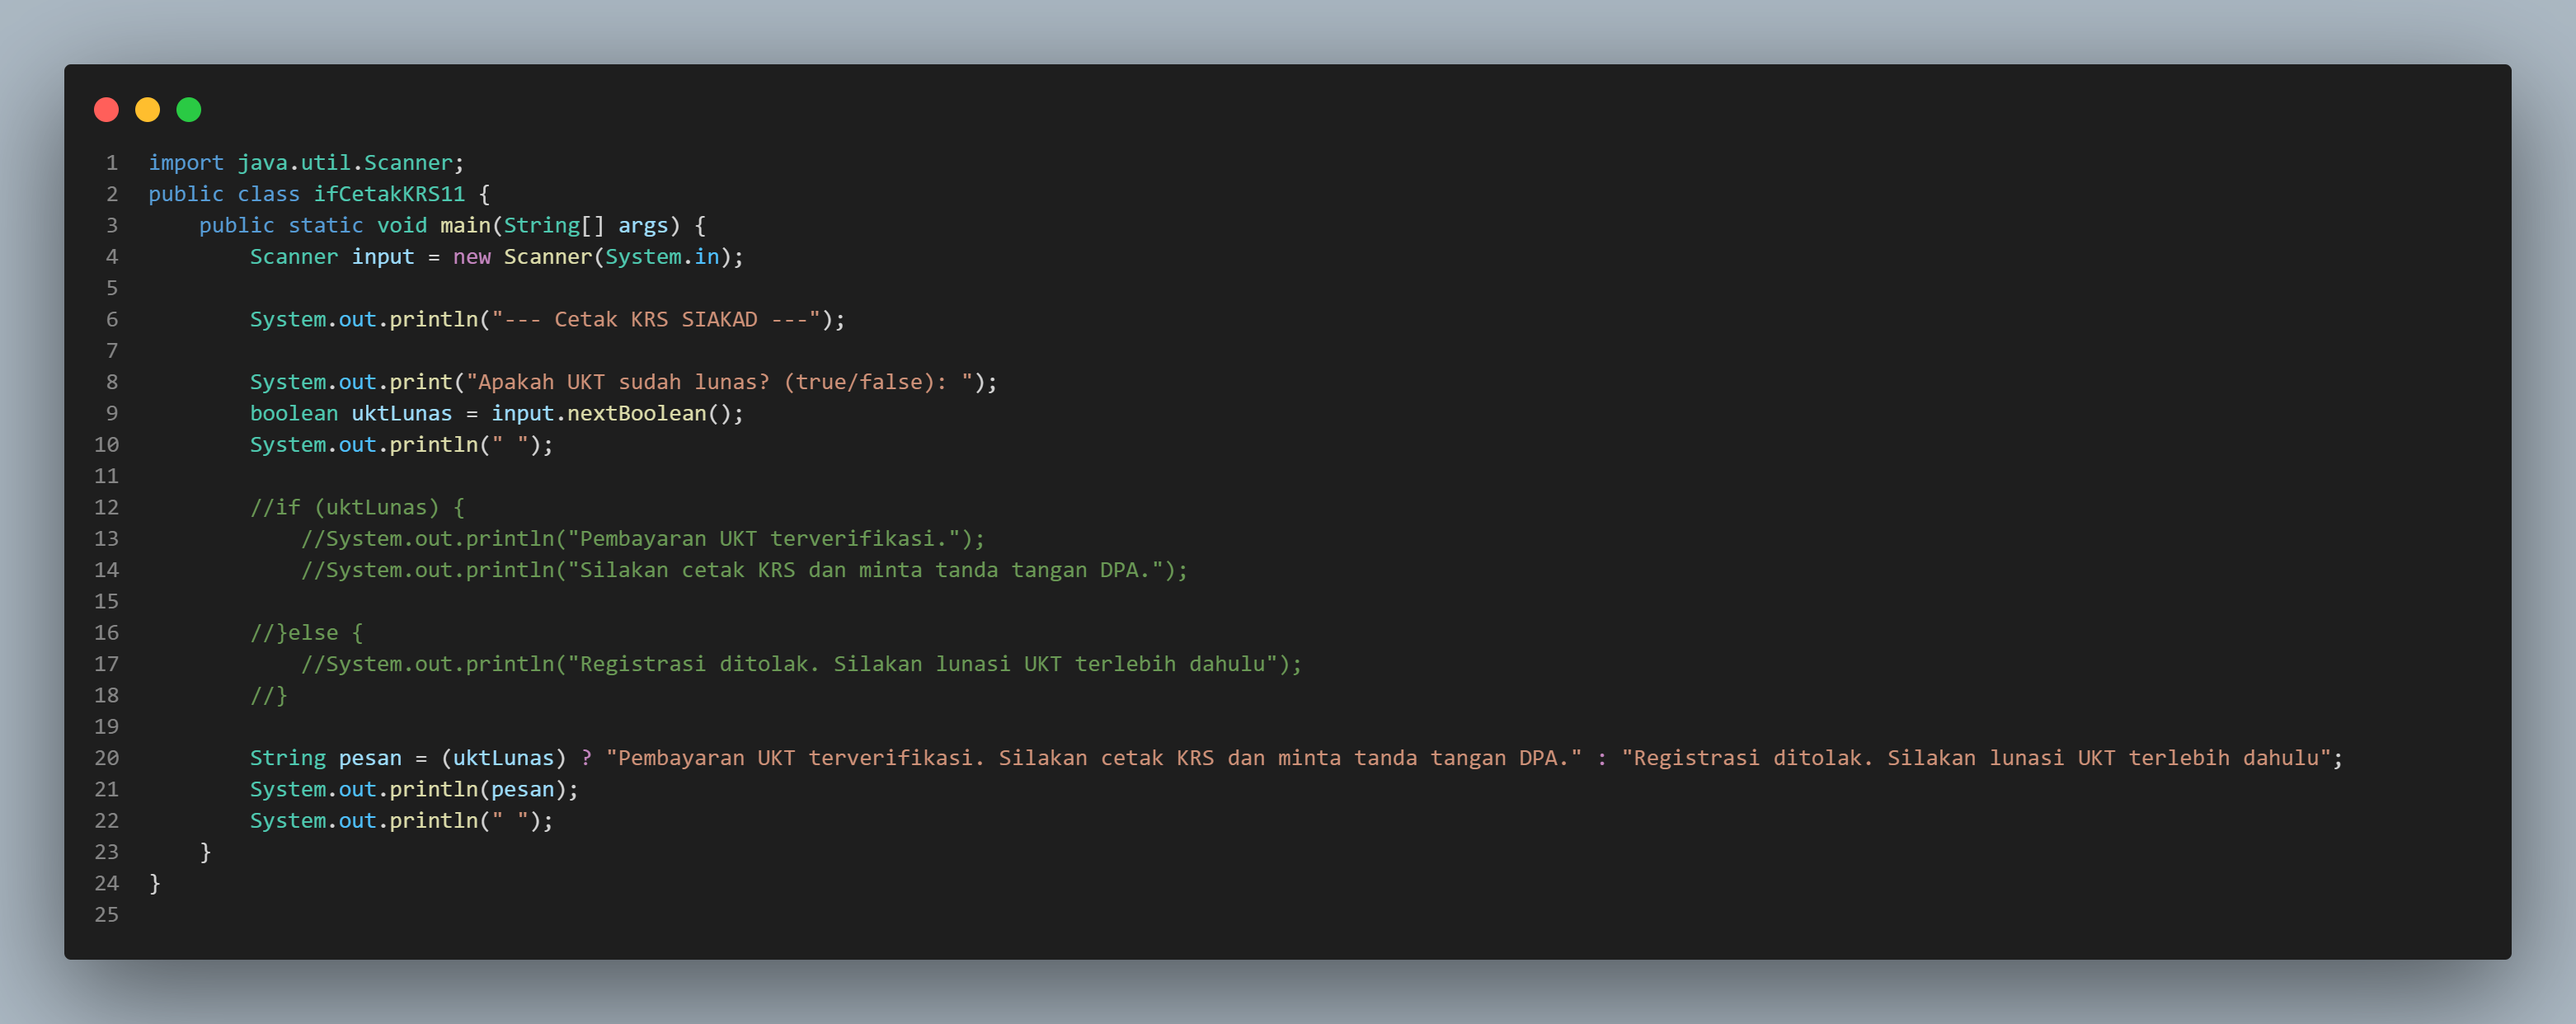
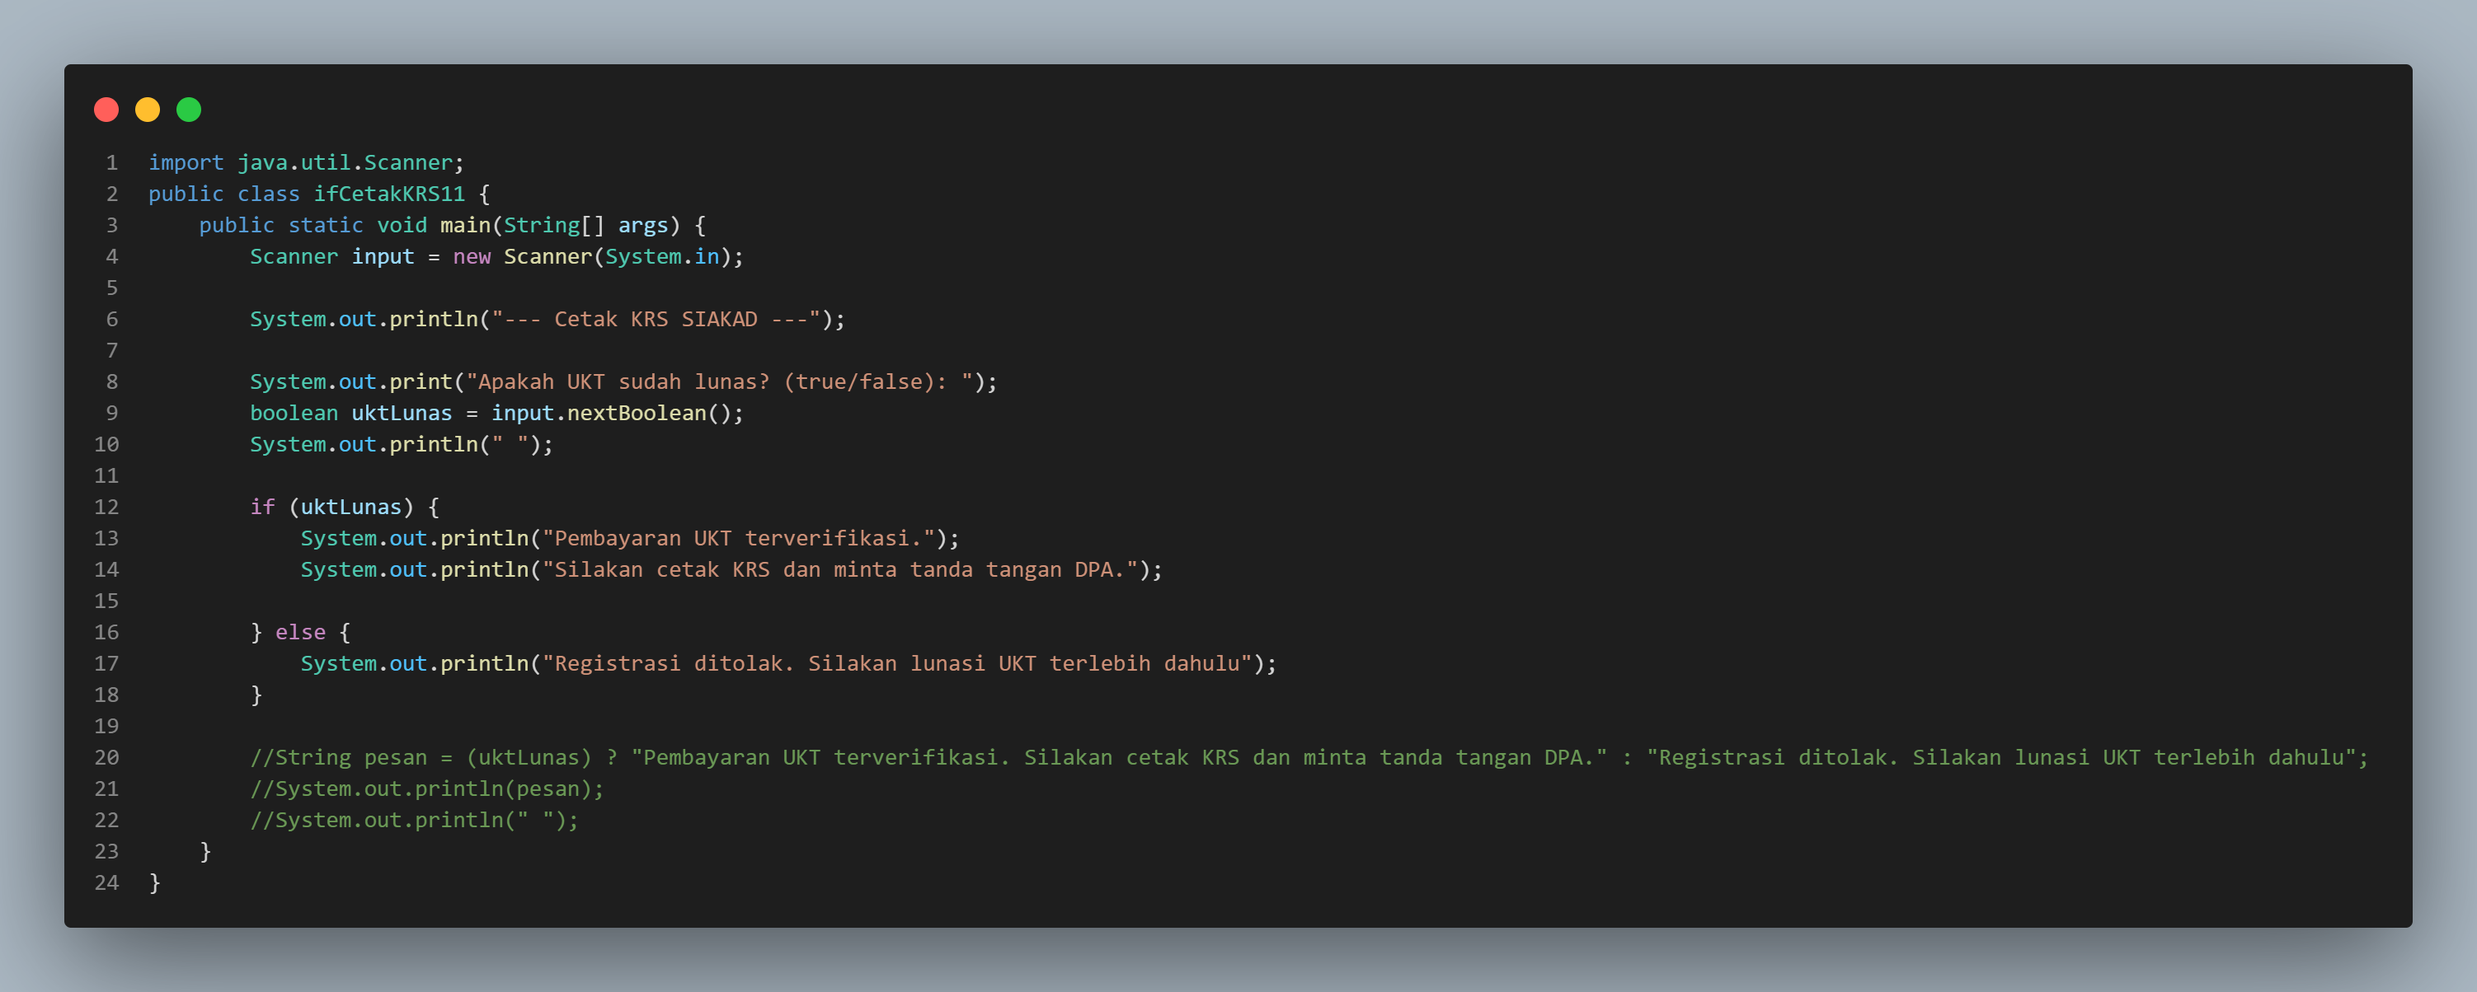
Modifikasi Percobaan 1

diff --git a/Minggu7/jobsheet5/ifCetakKRS11.java b/Minggu7/jobsheet5/ifCetakKRS11.java
@@ -9,16 +9,16 @@ public class ifCetakKRS11 {
         boolean uktLunas = input.nextBoolean();
         System.out.println(" ");
 
-        //if (uktLunas) {
-            //System.out.println("Pembayaran UKT terverifikasi.");
-            //System.out.println("Silakan cetak KRS dan minta tanda tangan DPA.");
+        if (uktLunas) {
+            System.out.println("Pembayaran UKT terverifikasi.");
+            System.out.println("Silakan cetak KRS dan minta tanda tangan DPA.");
 
-        //}else {
-            //System.out.println("Registrasi ditolak. Silakan lunasi UKT terlebih dahulu");
-        //}
+        } else {
+            System.out.println("Registrasi ditolak. Silakan lunasi UKT terlebih dahulu");
+        }
 
-        String pesan = (uktLunas) ? "Pembayaran UKT terverifikasi. Silakan cetak KRS dan minta tanda tangan DPA." : "Registrasi ditolak. Silakan lunasi UKT terlebih dahulu";
-        System.out.println(pesan);
-        System.out.println(" ");
+        //String pesan = (uktLunas) ? "Pembayaran UKT terverifikasi. Silakan cetak KRS dan minta tanda tangan DPA." : "Registrasi ditolak. Silakan lunasi UKT terlebih dahulu";
+        //System.out.println(pesan);
+        //System.out.println(" ");
     }
 }
